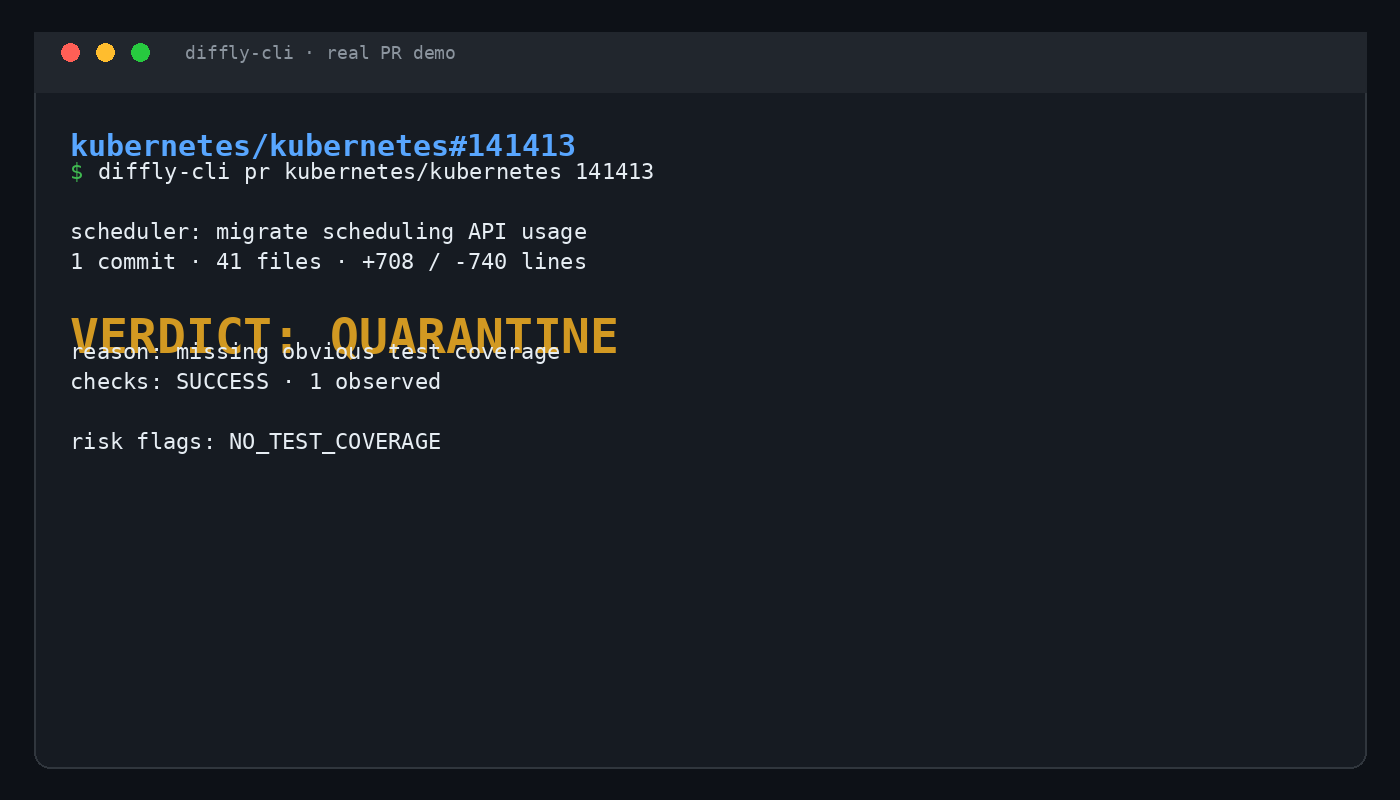
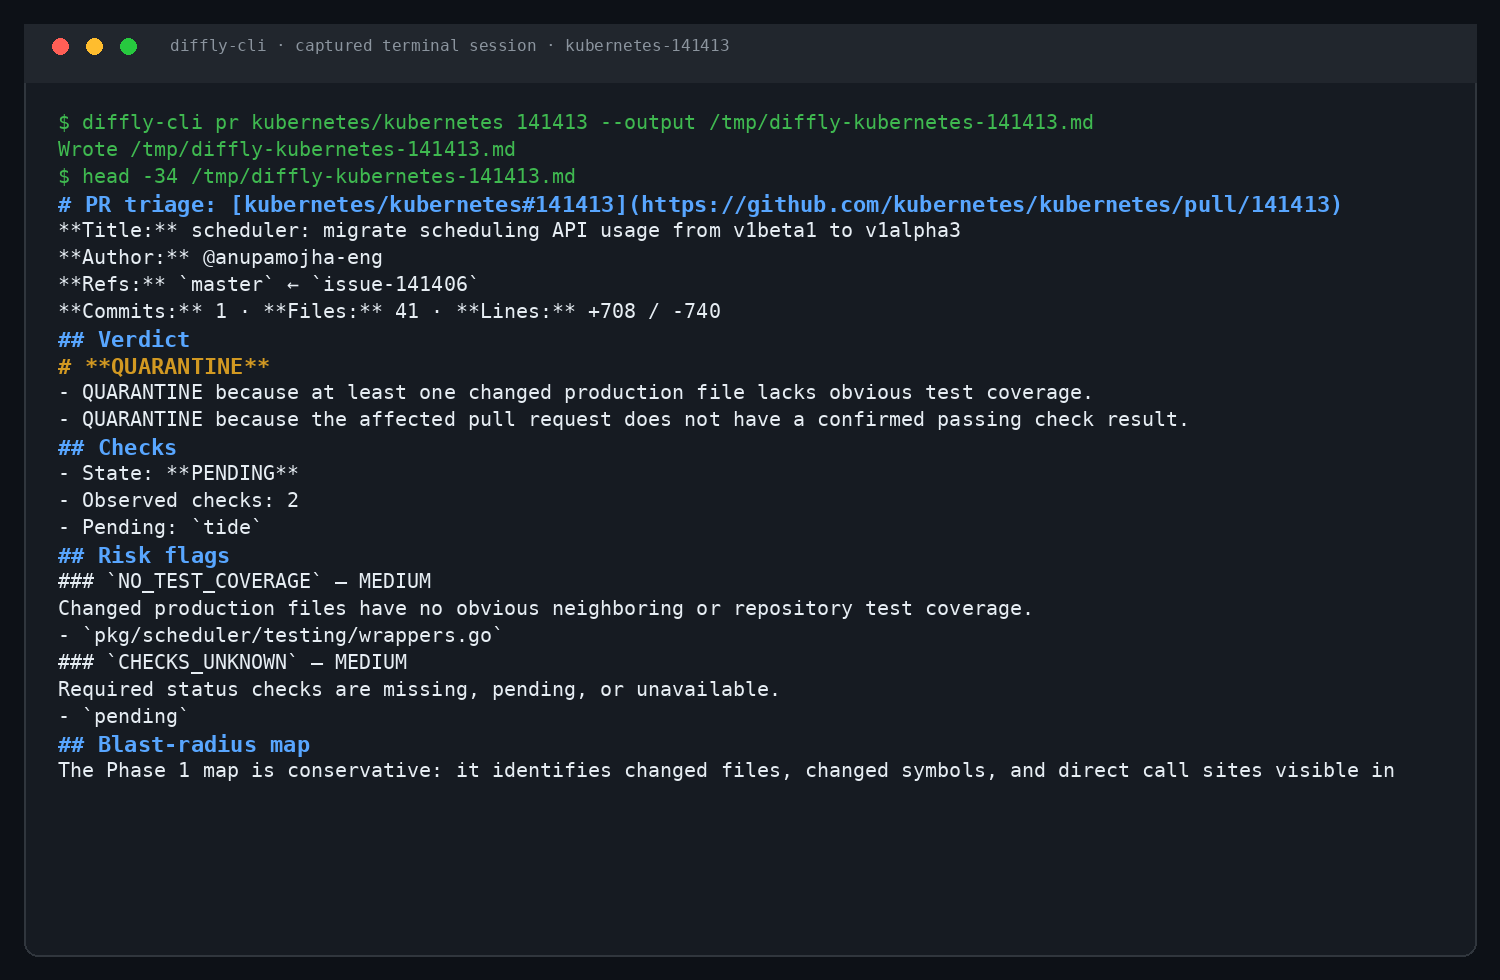
Replace mock visuals with real CLI captures

diff --git a/render_real_captures.py b/render_real_captures.py
@@ -1,0 +1,85 @@
+from __future__ import annotations
+
+import re
+from pathlib import Path
+from PIL import Image, ImageDraw, ImageFont
+
+ROOT = Path(__file__).resolve().parent
+CAPTURES = ROOT / 'assets' / 'real-captures'
+SCREENSHOTS = ROOT / 'assets' / 'screenshots'
+SCREENSHOTS.mkdir(parents=True, exist_ok=True)
+
+FONT_PATH = '/usr/share/fonts/truetype/dejavu/DejaVuSansMono.ttf'
+SMALL_PATH = '/usr/share/fonts/truetype/dejavu/DejaVuSansMono-Bold.ttf'
+FONT = ImageFont.truetype(FONT_PATH, 20)
+SMALL = ImageFont.truetype(FONT_PATH, 16)
+BOLD = ImageFont.truetype(SMALL_PATH, 22)
+
+ANSI_RE = re.compile(r'\x1b(?:\[[0-?]*[ -/]*[@-~]|\][^\x07]*(?:\x07|\x1b\\))')
+BG = '#0d1117'
+PANEL = '#161b22'
+BORDER = '#30363d'
+TEXT = '#e6edf3'
+MUTED = '#8b949e'
+GREEN = '#3fb950'
+BLUE = '#58a6ff'
+YELLOW = '#d29922'
+RED = '#f85149'
+
+
+def clean_capture(path: Path) -> list[str]:
+    raw = path.read_text(encoding='utf-8', errors='replace')
+    lines = []
+    for raw_line in raw.splitlines():
+        line = ANSI_RE.sub('', raw_line).replace('\r', '')
+        if line.startswith('Script started on ') or line.startswith('Script done on '):
+            continue
+        if line.strip():
+            lines.append(line)
+    return lines
+
+
+def render(lines: list[str], title: str, height: int = 980) -> Image.Image:
+    image = Image.new('RGB', (1500, height), BG)
+    draw = ImageDraw.Draw(image)
+    draw.rounded_rectangle((24, 24, 1476, height - 24), radius=14, fill=PANEL, outline=BORDER, width=2)
+    draw.rectangle((24, 24, 1476, 82), fill='#21262d')
+    for x, color in [(60, '#ff5f56'), (94, '#ffbd2e'), (128, '#27c93f')]:
+        draw.ellipse((x - 8, 46 - 8, x + 8, 46 + 8), fill=color)
+    draw.text((170, 36), title, font=SMALL, fill=MUTED)
+
+    y = 110
+    for line in lines[:34]:
+        if line.startswith('$ '):
+            draw.text((58, y), line, font=FONT, fill=GREEN)
+        elif line.startswith('# PR triage'):
+            draw.text((58, y), line, font=BOLD, fill=BLUE)
+        elif line.startswith('# **BLOCK**'):
+            draw.text((58, y), line, font=BOLD, fill=RED)
+        elif line.startswith('# **QUARANTINE**'):
+            draw.text((58, y), line, font=BOLD, fill=YELLOW)
+        elif line.startswith('# **SHIP**'):
+            draw.text((58, y), line, font=BOLD, fill=GREEN)
+        elif line.startswith('## '):
+            draw.text((58, y), line, font=BOLD, fill=BLUE)
+        elif line.startswith('Wrote '):
+            draw.text((58, y), line, font=FONT, fill=GREEN)
+        else:
+            draw.text((58, y), line[:112], font=FONT, fill=TEXT)
+        y += 27
+        if y > height - 48:
+            break
+    return image
+
+
+names = ['vscode-330848', 'kubernetes-141413', 'ruff-27808']
+frames: list[Image.Image] = []
+for name in names:
+    lines = clean_capture(CAPTURES / f'{name}.ansi')
+    image = render(lines, f'diffly-cli · captured terminal session · {name}')
+    image.save(SCREENSHOTS / f'{name}.png', optimize=True)
+    frames.append(image)
+
+# The GIF contains only frames rendered from real captured CLI transcripts.
+frames[0].save(ROOT / 'assets' / 'diffly-cli-demo.gif', save_all=True, append_images=frames[1:], duration=[2200, 2200, 2800], loop=0, optimize=False)
+print(f'rendered {len(frames)} screenshots and one GIF from real terminal captures')

diff --git a/README.md b/README.md
@@ -56,7 +56,7 @@ For each changed file, the report lists the file status, additions and deletions
 
 ## Demo
 
-The committed demo section is generated from real public GitHub pull requests and records the raw diff statistics beside diffly-cli’s one-page deterministic summary. The short animated walkthrough below shows the intended review flow from command to deterministic verdict.
+The committed demo section is captured from real terminal sessions running diffly-cli against public GitHub pull requests. It records the raw diff statistics beside diffly-cli’s actual one-page deterministic summary; the screenshots and GIF are rendered from those terminal transcripts rather than generated mockups.
 
 ![diffly-cli animated demonstration](assets/diffly-cli-demo.gif)
 

diff --git a/visual-verification.md b/visual-verification.md
@@ -1,0 +1,13 @@
+# Authentic visual verification
+
+The previous screenshot assets were synthetic terminal-style compositions and have been replaced.
+
+New assets are generated from ANSI transcripts captured by the Unix `script` command while running the real CLI against these public pull requests:
+
+- `microsoft/vscode#330848`
+- `kubernetes/kubernetes#141413`
+- `astral-sh/ruff#27808`
+
+The verified Ruff screenshot visibly contains the actual command `$ diffly-cli pr astral-sh/ruff 27808 --output ...`, the real report URL, title, commit/file/line counts, `BLOCK` verdict, failed check evidence, and `NO_TEST_COVERAGE` evidence. The GIF is composed only of frames rendered from these captured transcripts; no synthetic demo copy is used.
+
+Verified on 2026-08-17.
